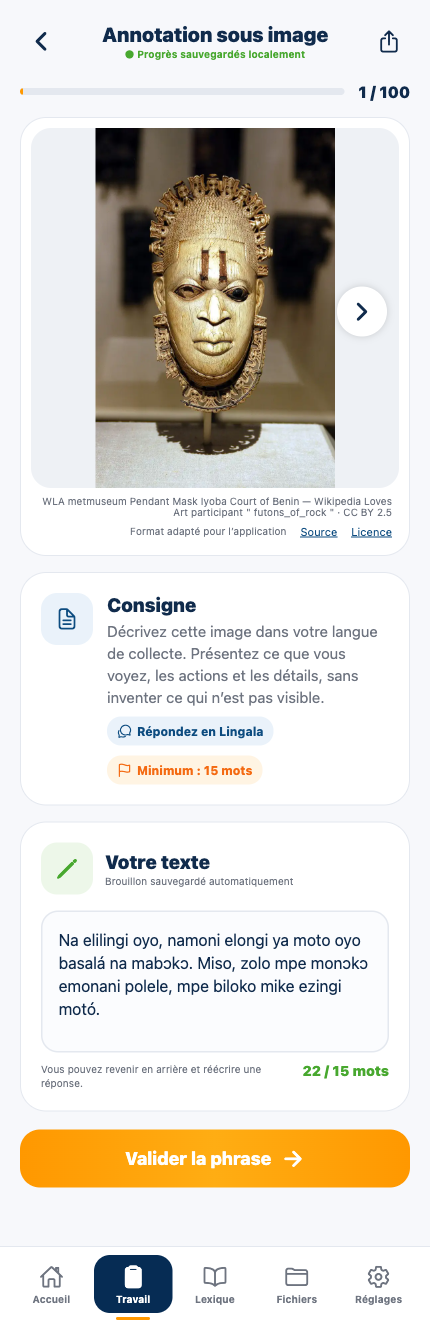
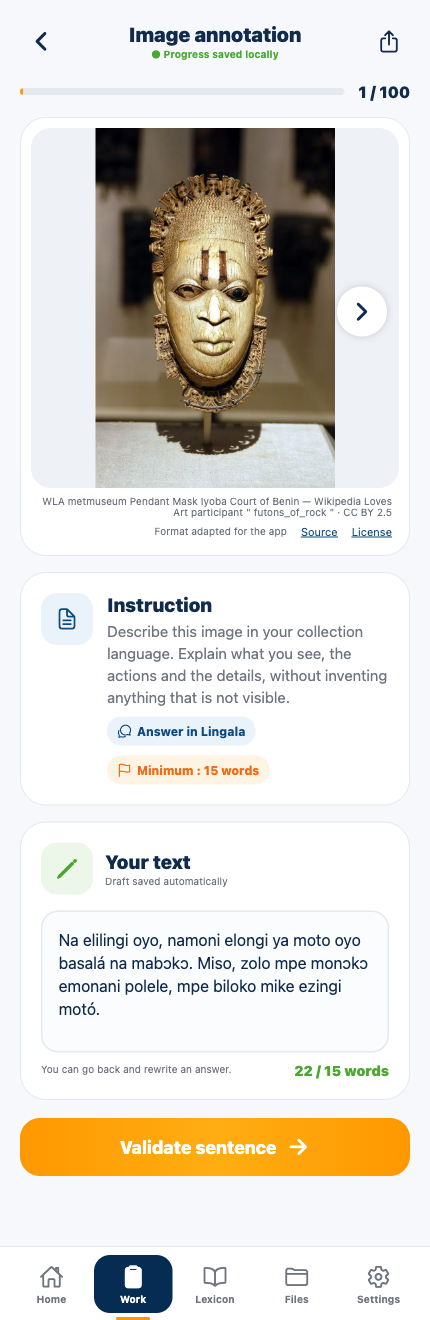
docs(captures): présenter l’interface en anglais

diff --git a/README.md b/README.md
@@ -22,15 +22,15 @@ Developers can [run the project locally](docs/TECHNICAL_README.md#run-locally).
 
 **Create your access → open a photo → write → validate → export and share.**
 
-The screenshots below show the real 0.4.0 Web preview at a phone-sized width, using a fictional collector, **Amina Demo**. They use the app’s default French interface; the French button names are included in the instructions. On a phone, exporting opens the native sharing options.
+The screenshots below show the real 0.4.0 Web preview at a phone-sized width, using a fictional collector, **Amina Demo**. English is preselected for these illustrations, including the access screen, and the instructions use English button names. A fresh installation starts in French; after signing in, select **Réglages → English** to use the English interface. On a phone, exporting opens the native sharing options.
 
 ### 1. Create your access and start a pack
 
-On the welcome screen, tap **Commencer**. Enter your first and last names, select your collection language, then choose and confirm a **personal code of 4–12 digits**. Tap **Entrer dans l’application** to enter.
+On the welcome screen, tap **Get started**. Enter your first and last names, select your collection language, then choose and confirm a **personal code of 4–12 digits**. Tap **Enter the app** to enter.
 
 The app creates your collector ID automatically. Your personal code lets you reopen your workspace after signing out or restarting the app.
 
-On **Accueil** (Home), check your progress and tap **Commencer le lot** (Start the pack). The 100-photo beta pack is ready without a download.
+On **Home**, check your progress and tap **Start the pack**. The 100-photo beta pack is ready without a download.
 
 <table>
   <tr>
@@ -47,9 +47,9 @@ On **Accueil** (Home), check your progress and tap **Commencer le lot** (Start t
 
 Read the prompt under the photo and describe what you can actually see, **in your chosen collection language**. For the beta pack, write at least **15 words**; the word counter helps you check.
 
-Your draft is saved automatically. Tap **Valider la phrase** (Validate the sentence) when it is ready: your progress increases and the next unfinished image opens. Use the image arrows to revisit and edit a response.
+Your draft is saved automatically. Tap **Validate sentence** when it is ready: your progress increases and the next unfinished image opens. Use the image arrows to revisit and edit a response.
 
-You can stop and come back later. From Home, **Continuer le travail** (Continue working) takes you back to your collection. You do not have to finish all 100 photos in one sitting.
+You can stop and come back later. From Home, **Continue working** takes you back to your collection. You do not have to finish all 100 photos in one sitting.
 
 <table>
   <tr>
@@ -64,12 +64,12 @@ You can stop and come back later. From Home, **Continuer le travail** (Continue 
 
 ### 3. Look up a word, then export your work
 
-Need a word? Open **Lexique** (Dictionary), choose the source and target languages, and search. Tap a result to see its translations. The dictionary works offline and currently covers French, English and Lingala; Kituba and Kikongo entries are planned.
+Need a word? Open **Lexicon**, choose the source and target languages, and search. Tap a result to see its translations. The dictionary works offline and currently covers French, English and Lingala; Kituba and Kikongo entries are planned.
 
 To hand over your work:
 
-1. Open **Fichiers** (Files) and find **Exports d’annotations**.
-2. Check the number of annotations included, then tap **Exporter l’état actuel** (Export current work).
+1. Open **Files** and find **Annotation exports**.
+2. Check the number of annotations included, then tap **Export current state**.
 3. On your phone, choose where to save or share the generated **JSON file**. Send that file to your coordinator using the agreed channel, such as WhatsApp or email, when a connection is available.
 
 **You can export before finishing the pack.** The file includes your non-empty drafts and validated responses, including work from earlier packs. Exporting keeps your work in the app, so you can continue collecting and export again later.
@@ -80,8 +80,8 @@ To hand over your work:
     <th>Export your collection</th>
   </tr>
   <tr>
-    <td valign="top"><img src="docs/screenshots/05-lexicon.png" alt="Dictionary entry for maison, with English home and Lingala ndako" width="320" /></td>
-    <td valign="top"><img src="docs/screenshots/06-export.png" alt="Files screen showing one annotation ready to export and the Export current work button" width="320" /></td>
+    <td valign="top"><img src="docs/screenshots/05-lexicon.png" alt="Dictionary entry for home, with French maison and Lingala ndako" width="320" /></td>
+    <td valign="top"><img src="docs/screenshots/06-export.png" alt="Files screen showing one annotation ready to export and the Export current state button" width="320" /></td>
   </tr>
 </table>
 
@@ -90,9 +90,9 @@ To hand over your work:
 <a id="accès-collecteur"></a>
 
 - **Returning to your work:** enter your personal code. If several people use the same phone, choose your name first.
-- **Forgotten code:** tap **Code oublié**, enter the same first and last names used at registration, and choose a new code. Spelling and accents must match; your work is kept.
-- **A new assignment:** in **Fichiers**, paste the assignment link supplied by your coordinator or import its JSON file. Download the photos while connected; then work offline. See [pack preparation](docs/TECHNICAL_README.md#prepare-a-collection-pack) for coordinators.
-- **Interface language:** open **Réglages** (Settings) to choose English or change the theme. The interface returns to French at startup and sign-out. Your collection language stays attached to your account.
+- **Forgotten code:** tap **Forgotten code**, enter the same first and last names used at registration, and choose a new code. Spelling and accents must match; your work is kept.
+- **A new assignment:** in **Files**, paste the assignment link supplied by your coordinator or import its JSON file. Download the photos while connected; then work offline. See [pack preparation](docs/TECHNICAL_README.md#prepare-a-collection-pack) for coordinators.
+- **Interface language:** open **Settings** to change the interface language or theme. The interface returns to French at startup and sign-out. Your collection language stays attached to your account.
 - **Keeping a copy:** save or send exports regularly. Work is stored on this phone; there is currently no automatic online backup or account synchronization between devices.
 
 ## Upcoming
